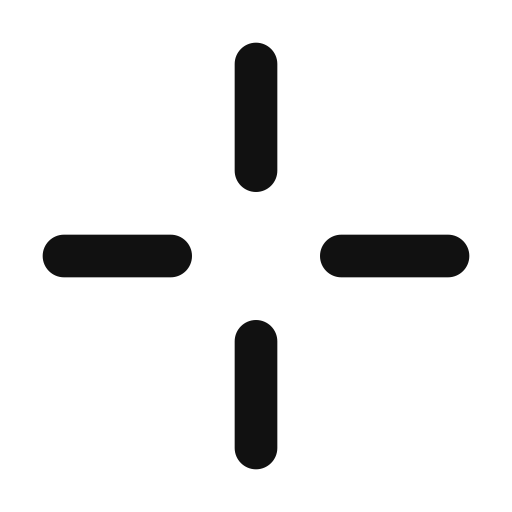
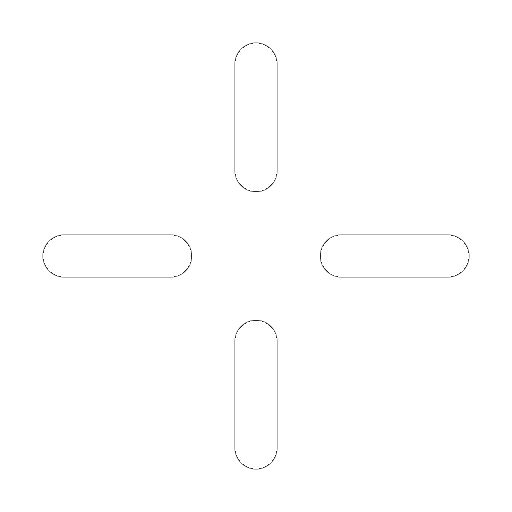
Enemy states

diff --git a/Assets/Scripts/Player/PlayerAttack.cs b/Assets/Scripts/Player/PlayerAttack.cs
@@ -1,5 +1,5 @@
 using UnityEngine;
-
+using UnityEngine.UI;   
 public class PlayerAttack : MonoBehaviour
 {
     [SerializeField] private Camera cam;
@@ -8,10 +8,18 @@ public class PlayerAttack : MonoBehaviour
     public LayerMask enemyMask;
     private PlayerUI playerUI;
 
+    public Image crosshair;
+    public Sprite defaultSprite;
+    public Sprite hoverSprite;
+
+    public bool needsTutorial;
+
     // Start is called once before the first execution of Update after the MonoBehaviour is created
     void Start()
     {
         playerUI = GetComponent<PlayerUI>();
+        crosshair.sprite = defaultSprite;
+        needsTutorial = true;
     }
 
     // Update is called once per frame
@@ -21,17 +29,34 @@ public class PlayerAttack : MonoBehaviour
         Ray ray = new Ray(cam.transform.position, cam.transform.forward);
         Debug.DrawRay(ray.origin, ray.direction * distance, Color.yellow);
         RaycastHit hitInfo;
+
         if (Physics.Raycast(ray, out hitInfo, distance, enemyMask))
         {
+            Debug.Log("Hit: " + hitInfo.collider.name);
+
+            if (needsTutorial)
+            {
+                playerUI.UpdateText("Press Left Mouse Button to Defend yourself!");
+            }
+
             if (hitInfo.collider.GetComponent<EnemyAI>() != null)
             {
+
+                
+
                 EnemyAI enemyAI = hitInfo.collider.GetComponent<EnemyAI>();
+
+                crosshair.sprite = hoverSprite;
+                crosshair.color = Color.red;
 
                 if (Input.GetKeyDown(KeyCode.Mouse0))
                 {
                     enemyAI.TakeDamage(1);
                 }
             }
+            
+
         }
+  
     }
 }

diff --git a/Assets/Scripts/Player/PlayerInteract.cs b/Assets/Scripts/Player/PlayerInteract.cs
@@ -1,4 +1,5 @@
 using UnityEngine;
+using UnityEngine.UI;
 using System.Collections;
 using System.Collections.Generic;
 
@@ -8,12 +9,17 @@ public class PlayerInteract : MonoBehaviour
     [SerializeField] private float distance = 3f;
     public LayerMask interactibleMask;
 
+    public Image crosshair;
+    public Sprite defaultSprite;
+    public Sprite hoverSprite;
+
     private PlayerUI playerUI;
     
     // Start is called once before the first execution of Update after the MonoBehaviour is created
     void Start()
     {
-       playerUI = GetComponent<PlayerUI>();
+        playerUI = GetComponent<PlayerUI>();
+        crosshair.sprite = defaultSprite;
     }
 
     // Update is called once per frame
@@ -25,8 +31,12 @@ public class PlayerInteract : MonoBehaviour
         RaycastHit hitInfo;
         if (Physics.Raycast(ray, out hitInfo, distance, interactibleMask))
         {
+            Debug.Log("Hit: " + hitInfo.collider.name);
+
             if (hitInfo.collider.GetComponent<Interactible>() != null)
             {
+                crosshair.sprite = hoverSprite;
+                crosshair.color = Color.yellow;
                 Interactible interactible = hitInfo.collider.GetComponent<Interactible>();
                 playerUI.UpdateText(interactible.interactionPrompt);
                 if (Input.GetKeyDown(KeyCode.E))
@@ -34,8 +44,13 @@ public class PlayerInteract : MonoBehaviour
                     interactible.BaseInteract();
                 }
             }
+            
         }
-
+        else
+        {
+            crosshair.sprite = defaultSprite;
+            crosshair.color = Color.white;
+        }
 
     }
 }

diff --git a/Assets/Scripts/EvolutionManager.cs b/Assets/Scripts/EvolutionManager.cs
@@ -1,4 +1,4 @@
-using System.Collections.Generic;
+using System.Collections;
 using NUnit.Framework;
 using UnityEngine;
 using UnityEngine.InputSystem.XR;
@@ -11,13 +11,27 @@ public class EvolutionManager : MonoBehaviour
     public int EvolutionCount;
     [SerializeField] Camera POVCamera;
     [SerializeField] PlayerMovement Player;
+    [SerializeField] PlayerHealth hp;
 
-    
+    public float currentFOV;
+
+    public void Start()
+    {
+        currentFOV = POVCamera.fieldOfView;
+    }
+
+
+
     public void Evolve()
     {
         Debug.Log("Evolving...");
         EvolutionCount++;
-        POVCamera.fieldOfView += 20f;
+
+        StartCoroutine(ChangeFOV(currentFOV, currentFOV + 20f, 1f));
+
+        hp.RestoreHealth(20); // Restore 20 health points upon evolution
+
+        //Change player stats
         Player.walkSpeed++;
         Player.sprintSpeed++;
         Player.crouchSpeed++;
@@ -25,5 +39,20 @@ public class EvolutionManager : MonoBehaviour
         //change hand sprite
 
     }
+
+    //A coroutine to smoothly change the camera's field of view over a specified duration
+    IEnumerator ChangeFOV(float startFOV, float targetFOV, float duration)
+    {
+        float elapsed = 0f;
+        while (elapsed < duration)
+        {
+            elapsed += Time.deltaTime;
+            float t = elapsed / duration;
+            POVCamera.fieldOfView = Mathf.Lerp(startFOV, targetFOV, t);
+            yield return null;
+        }
+        POVCamera.fieldOfView = targetFOV;
+    }
+
 
 }

diff --git a/Assets/Scripts/EnemyAI.cs b/Assets/Scripts/EnemyAI.cs
@@ -31,8 +31,7 @@ public class EnemyAI : MonoBehaviour
     //Visualises the character taking damage
     [SerializeField] private float hurtDuration;
     [SerializeField] private int numberOfFlashes;
-    [SerializeField] private Collider enemyCollider; // Reference to the enemy's collider for disabling it when dead
-
+    [SerializeField] private Collider enemyCollider; 
     private void Awake()
     {
         player = GameObject.Find("Player").transform;
@@ -92,7 +91,10 @@ public class EnemyAI : MonoBehaviour
         Vector3 distanceToWalkPoint = transform.position - walkPoint;
 
 
-
+        if (distanceToWalkPoint.magnitude < 1f)
+        {
+            walkPointSet = false;
+        }
     }
 
     private void SearchWalkPoint()
@@ -132,6 +134,20 @@ public class EnemyAI : MonoBehaviour
     private void Dead()
     {
         agent.SetDestination(transform.position);
+    }
+
+
+    private void OnCollisionEnter(Collision collision)
+    {
+        if (collision.gameObject.CompareTag("Player") && !isDead)
+        {
+            Debug.Log("Player hit by enemy");
+            PlayerHealth playerHealth = collision.gameObject.GetComponent<PlayerHealth>();
+            if (playerHealth != null)
+            {
+                playerHealth.TakeDamage(10f);
+            }
+        }
     }
 
     private void OnDrawGizmosSelected()

diff --git a/Assets/Scripts/Interactibles/Hare.cs b/Assets/Scripts/Interactibles/Hare.cs
@@ -5,15 +5,18 @@ public class Hare : Interactible
 {
     [SerializeField] private GameObject player;
     private PlayerXP xpSystem; // Reference to the PlayerXP system for managing experience points
-    [SerializeField] EvolutionManager EvolutionManager;
+    
     [SerializeField] private EnemyAI enemyAI; // Reference to the EnemyAI script for managing enemy behavior
 
+
+    public bool isConsumable;
 
     // Start is called once before the first execution of Update after the MonoBehaviour is created
     void Start()
     {
         xpSystem = player.GetComponent<PlayerXP>();
         enemyAI = GetComponent<EnemyAI>();
+        isConsumable = false;
     }
 
     // Update is called once per frame
@@ -24,11 +27,11 @@ public class Hare : Interactible
 
     protected override void Interact()
     {
-        base.Interact();
-        
-        xpSystem.GainXP(1); // Award 1 XP to the player when interacting with the hare
-        gameObject.SetActive(false);
-        EvolutionManager.Evolve();
+            base.Interact();
+
+            xpSystem.GainXP(1); // Award 1 XP to the player when interacting with the hare
+            gameObject.SetActive(false);
+
     }
 
 }

diff --git a/Assets/Scripts/Player/PlayerXP.cs b/Assets/Scripts/Player/PlayerXP.cs
@@ -12,6 +12,7 @@ public class PlayerXP : MonoBehaviour
     public Image backXPbar;
     public TextMeshProUGUI levelText;
 
+    [SerializeField] EvolutionManager EvolutionManager;
 
     // Start is called once before the first execution of Update after the MonoBehaviour is created
     void Start()
@@ -82,5 +83,7 @@ public class PlayerXP : MonoBehaviour
         // You can add additional logic here for what happens when the player levels up
         Debug.Log("Level Up! New Level: " + level);
         xpRequired += 1f; // Increase the XP required for the next level (you can adjust this formula as needed)
+
+        EvolutionManager.Evolve();
     }
 }

diff --git a/Assets/Scripts/Player/PlayerUI.cs b/Assets/Scripts/Player/PlayerUI.cs
@@ -5,10 +5,9 @@ public class PlayerUI : MonoBehaviour
     [SerializeField]
     private TextMeshProUGUI interactionPrompt; // Reference to the TextMeshProUGUI component for displaying interaction prompts
 
-    // Start is called once before the first execution of Update after the MonoBehaviour is created
     void Start()
     {
-        
+
     }
 
     void Update()
